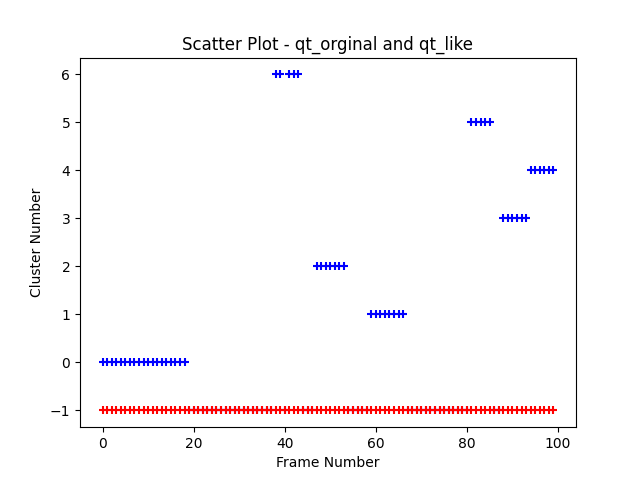
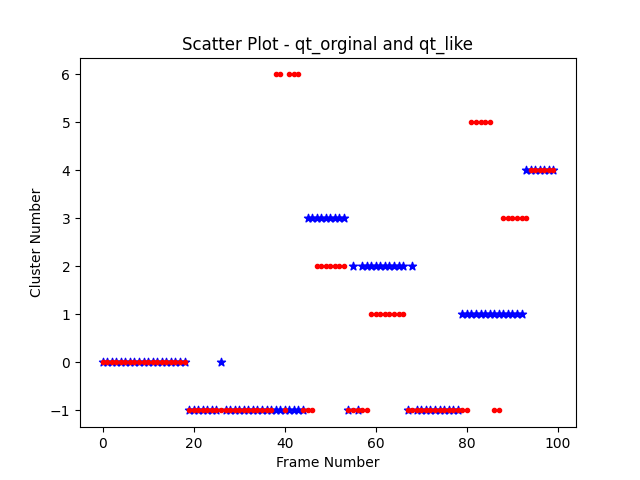
Need to work on proper display of data in scatter plots.

diff --git a/src/qt.py b/src/qt.py
@@ -56,8 +56,8 @@ def qt_orginal(rmsd_matrix, cutoff, minimum_membership):
         # ---- Store cluster frames -----------------------------------------------
         cluster_labels[max_precluster] = ncluster
         ncluster += 1
-        print('>>> Cluster # {} found with {} frames at center {} <<<'.format(
-              ncluster, len_precluster, max_node))
+        # print('>>> Cluster # {} found with {} frames at center {} <<<'.format(
+        #       ncluster, len_precluster, max_node))
 
         # ---- Update matrix & degrees (discard found clusters) -------------------
         rmsd_matrix[max_precluster, :] = numpy.inf
@@ -103,11 +103,8 @@ def runQT(filename, destination, type):
     elif type == "qt_like":
         qt_like(rmsd_matrix_temp, 0.25, 5)
     else:
-        print(rmsd_matrix_temp)
-        lb1 = qt_orginal(rmsd_matrix_temp, 0.25, 5)
-        print(rmsd_matrix_temp)
-        lb2 = qt_like(rmsd_matrix_temp, 0.25, 5)
-        print(rmsd_matrix_temp)
+        lb1 = qt_like(rmsd_matrix_temp, 0.25, 5)
+        lb2 = qt_orginal(rmsd_matrix_temp, 0.25, 5)
         postprocessing.scatterplot_multiple(lb1, lb2, len(rmsd_matrix_temp))
 
 if __name__ == "__main__":

diff --git a/src/postprocessing.py b/src/postprocessing.py
@@ -37,9 +37,8 @@ def scatterplot_multiple(clusters_arr1, cluster_arr2, no_frames):
             qt_type2 (str): qt types of implementation.
         '''
         plot.figure()
-        print(cluster_arr2)
-        plot.scatter(numpy.arange(no_frames), clusters_arr1, marker = '+', color='blue')
-        plot.scatter(numpy.arange(no_frames), cluster_arr2, marker = '+', color='red')
+        plot.scatter(numpy.arange(no_frames), clusters_arr1, marker = '*', color='blue')
+        plot.scatter(numpy.arange(no_frames), cluster_arr2, marker = '.', color='red')
         plot.xlabel("Frame Number")
         plot.ylabel("Cluster Number")
         plot.title("Scatter Plot - qt_orginal and qt_like")
